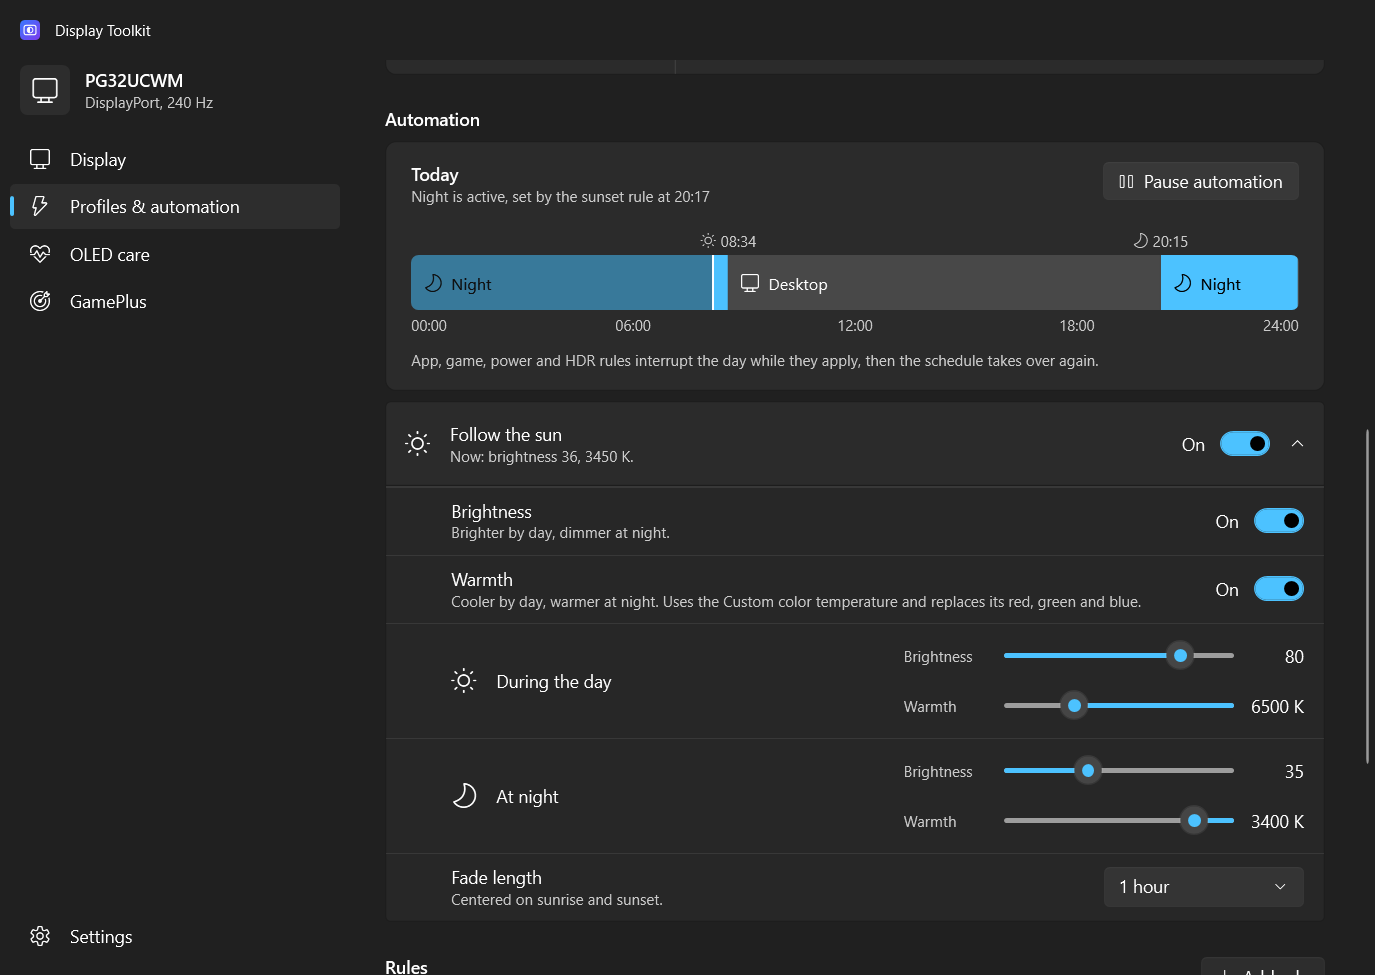
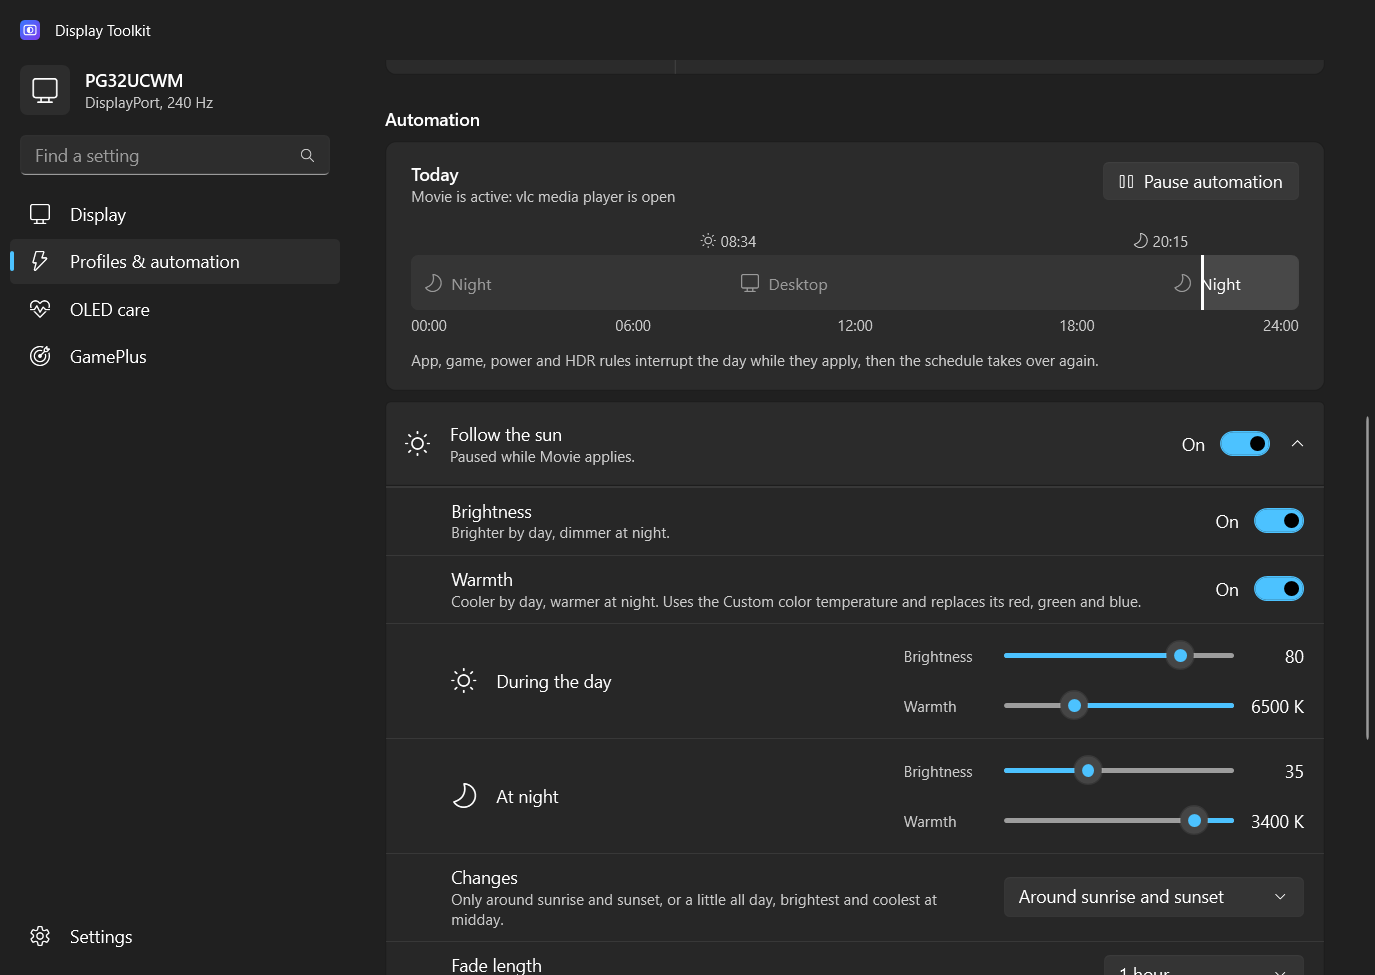
Refresh screenshots and docs for 1.4
New screenshots (sample data), README features and a SmartScreen note, architecture and design-spec notes brought up
to date.

diff --git a/docs/architecture.md b/docs/architecture.md
@@ -67,14 +67,17 @@ MonitorSession          per monitor: capabilities, current values, verified writ
   back; how long to wait depends on the feature (`WriteSettling`): picture-mode-like switches make Windows re-detect the
   monitor and need patience.
 - **Features** are declared once, as data, in `FeatureCatalog`: `RangeFeature`, `EnumFeature`, `SwitchFeature`,
-  `FlagFeature` (one bit of a bitmask register), `ByteFieldFeature` (one byte of a two-setting register) and
-  `HdrModeFeature`. A feature exists for a monitor only if its capabilities say so. Everything above Core refers to
+  `FlagFeature` (one bit of a bitmask register), `ByteFieldFeature` (one byte of a two-setting register, such as
+  picture mode and color gamut, or Aura effect and color) and `HdrModeFeature`. A feature can list choices the monitor
+  only leaves through off (`LeftThroughOff`, for Aura Sync). A feature exists for a monitor only if its capabilities say so. Everything above Core refers to
   features by **stable string id**, never by VCP code. `Vcp` names every code; it's the only place raw numbers appear.
 - **`CapabilitiesParser`** turns the MCCS capabilities string into `MonitorCapabilities` (codes, allowed values, supported
   bits). It's pure and tested against the real PG32UCWM string.
 - **Discovery** (`Win32MonitorEnumerator`) joins the physical monitors with the display configuration (CCD) API for the
   friendly name, EDID model and device path. `MonitorId` (model + instance) keys caches, layouts and profiles. Built-in
   laptop panels are skipped.
+- **Commands** that aren't settings go straight to the worker without a read-back: resetting the picture mode,
+  pressing the monitor's menu keys (`MenuKey`) and moving the GamePlus overlays (`OverlayDirection`).
 - **`WindowsHdr`** reads and switches Windows HDR for one display; **`DisplayLink`** reports how it's connected
   ("DisplayPort, 240 Hz").
 
@@ -109,10 +112,11 @@ MonitorSession          per monitor: capabilities, current values, verified writ
 - **Tray** (`TrayIcon`, `TrayController`): `Shell_NotifyIconW` with its own message window; left click opens quick
   settings, right click the menu; display changes and resume trigger a rescan. While the pointer is over the icon a low-level
   mouse hook watches the wheel for brightness. The icon is drawn from `IconArt`.
-- **Quick settings** (`Flyout/`): Acrylic, anchored by the taskbar; brightness band, profiles row and a tile grid the user
-  arranges.
-- **Main window** (`Views/`): Mica, a navigation pane and settings-card pages: Display, Profiles & automation, OLED care,
-  GamePlus, Settings.
+- **Quick settings** (`Flyout/`): Acrylic with a theme tint like Windows' own panel, anchored by the taskbar; brightness
+  band, profiles row and a tile grid the user arranges.
+- **Main window** (`Views/`): Mica, a navigation pane with "Find a setting" (`SettingsSearch`, a hand-kept index of card
+  titles; `SettingHighlight` opens collapsed sections and points at the card), and settings-card pages: Display,
+  Profiles & automation, OLED care, GamePlus, Settings (app features such as Target mode and shortcuts live there).
 - **ViewModels** wrap each feature in a `FeatureState` that the controls bind to; nothing in the UI talks to DDC directly.
 - **Controls** (`Controls/`, themes in `Themes/`): brightness band, tiles, settings cards and expanders, focus ring,
   shortcut recorder, and the panel behind the day strip.

diff --git a/README.md b/README.md
@@ -22,10 +22,11 @@ brightness and warmth that follow the sun.
 - **Shortcuts** for brightness, the next picture mode, HDR, Target mode and each input, all changeable in Settings,
   with a small on-screen confirmation.
 - **Target mode** dims every screen except the window you're using.
-- **Aura lighting** effects and colors, a **monitor menu** keypad, and GamePlus overlay position, on monitors that
-  support them.
-- **The full set of monitor settings** in the main window: picture and color (including six-axis saturation), OLED
-  care (pixel cleaning, panel protection, proximity sensor), GamePlus, and the monitor's own system options.
+- **A keypad for the monitor's own menu**, so you don't have to reach for its buttons.
+- **The full set of monitor settings** in the main window: picture and color (color gamut, six-axis saturation),
+  upscaling sharpness, OLED care (pixel cleaning, panel protection, proximity sensor), GamePlus (including the overlay
+  position), Aura lighting, and the monitor's own system options. A button resets the current picture mode to its
+  factory settings.
 - **Profiles**: a named set of settings, applied in the right order (HDR, then picture mode, then color, then the
   rest). Pick one in quick settings or the tray menu, or give it a shortcut; press the shortcut again to go back to
   automatic.
@@ -34,6 +35,9 @@ brightness and warmth that follow the sun.
 - **Follow the sun**: brightness and warmth fade between day and night values around sunrise and sunset.
 - **Find a setting** (Ctrl+F) in the main window, and a monitor switch when several monitors are connected.
 - **Export and import** everything to move to a new PC.
+- **Update reminders** when a new version is out (once a day, from GitHub; can be turned off).
+
+Settings only appear when the monitor reports them, so every model shows what it actually has.
 
 ## Screenshots
 
@@ -54,6 +58,9 @@ Download from [Releases](../../releases):
 
 Either way it's one self-contained app: no .NET or anything else to install. To start it with Windows, turn that on
 in Settings.
+
+The app isn't code-signed yet, so the first time you run it Windows SmartScreen may say "Windows protected your PC".
+Choose **More info**, then **Run anyway**. The source and the build that made the release are both on GitHub.
 
 Requirements:
 

diff --git a/docs/design/design-spec.md b/docs/design/design-spec.md
@@ -2,9 +2,10 @@
 
 Status: the original v1 design, 2026-10-03. Target: .NET 10 WPF, built-in Fluent theme, Windows 11.
 
-> The app follows this spec closely, with some differences: Target mode, the setting search, tray-wheel brightness and
-> multi-monitor switching aren't built yet; rules are reordered from their menu rather than dragged; the location is
-> entered as coordinates; and Follow the sun (brightness and warmth that follow the sun) was added later. The decisions in
+> The app follows this spec closely, with some differences: rules are reordered from their menu rather than dragged; the
+> location is entered as coordinates; Target mode lives in Settings; and several things were added later (Follow the
+> sun, Aura lighting, color gamut, upscaling sharpness, the monitor menu keypad, overlay position, picture mode reset).
+> Wording in the app is generic where this spec quotes one monitor (for example the blue light note). The decisions in
 > §13 win over the rest.
 Mockups: [`mockups/index.html`](mockups/index.html) (open in Edge or Chrome on Windows 11 at 100% zoom; they use the locally installed Segoe UI Variable and Segoe Fluent Icons).
 The mockups are generated from `mockups/_src/*.mjs` (`node mockups/_src/build.mjs`). Edit the sources, not the HTML.
